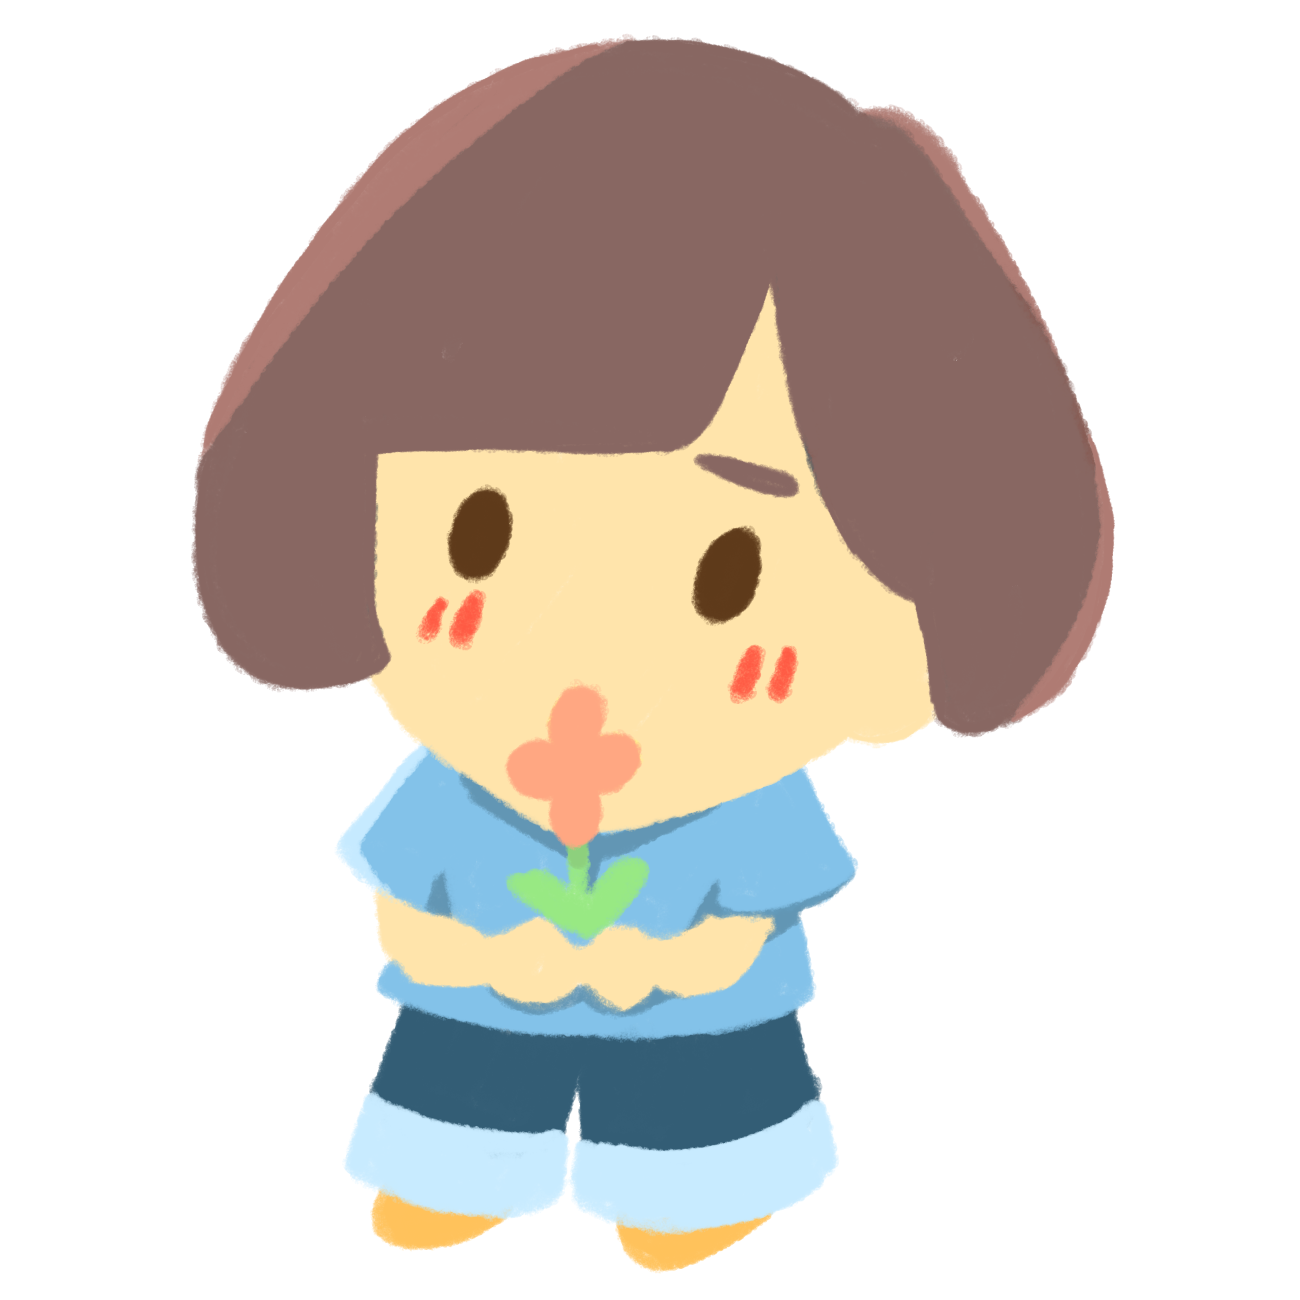
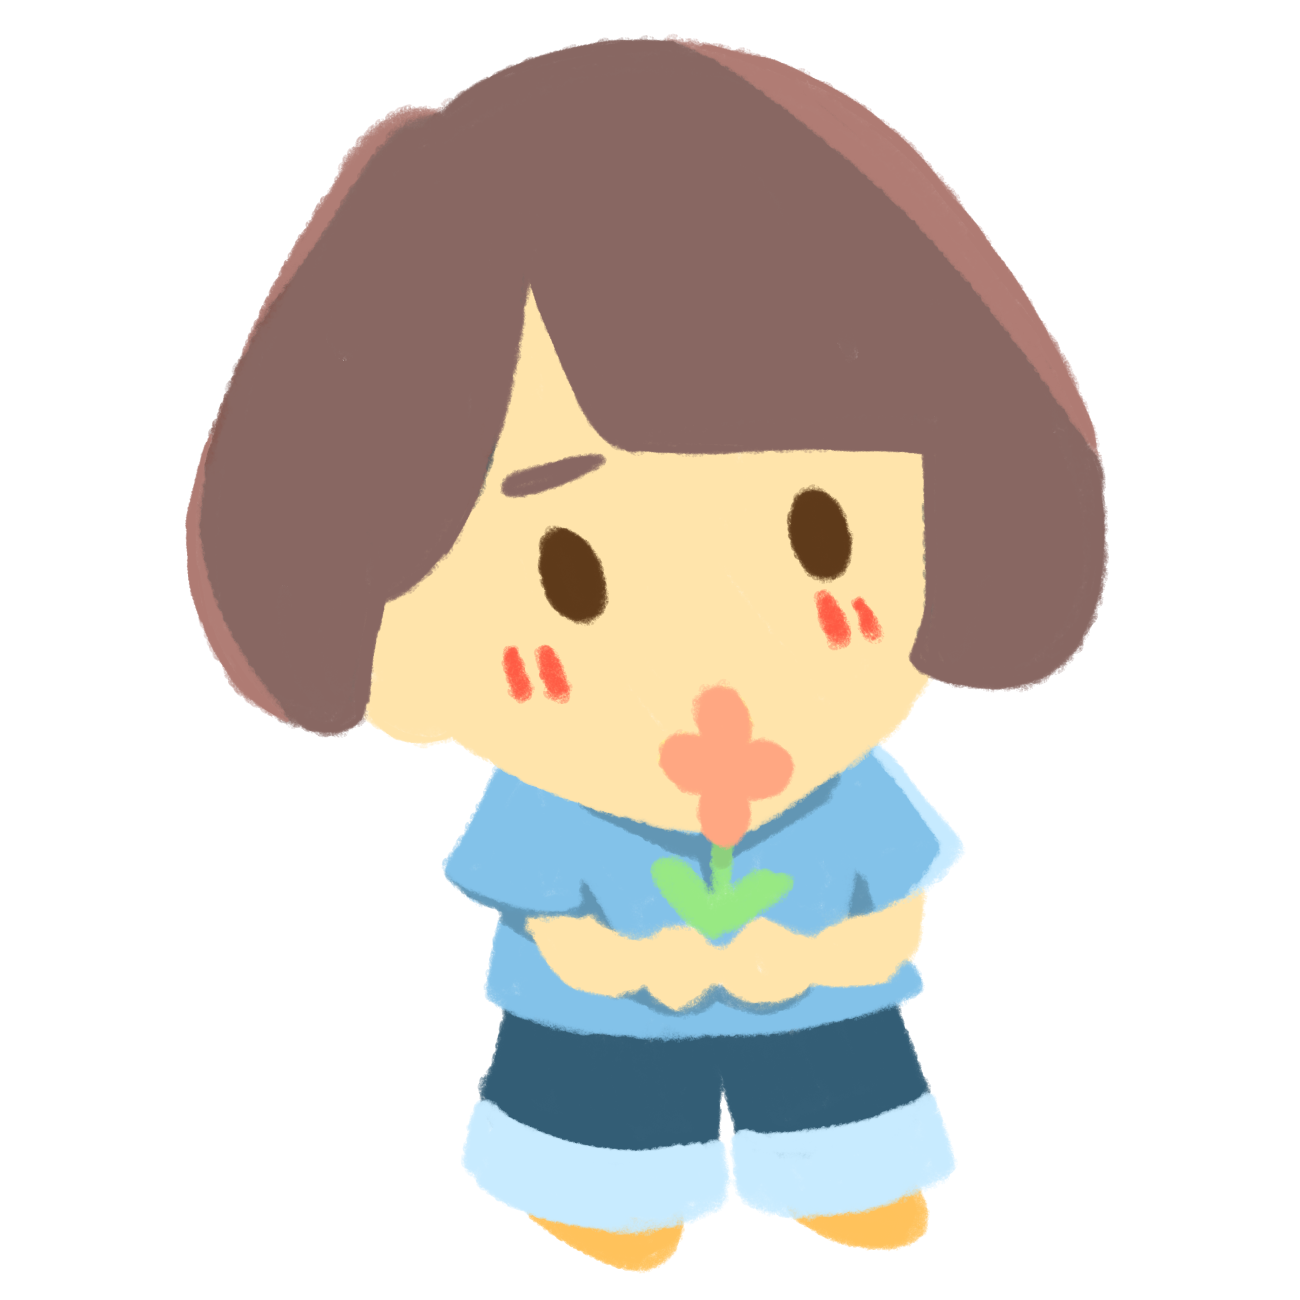
アプリ内の画像も女性反転

Changed region(s): [[0.1231, 0.0308, 0.8615, 0.9846], [0.1538, 0.0308, 0.4923, 0.3692]]

diff --git a/lib/features/final/final_screen.dart b/lib/features/final/final_screen.dart
@@ -1,6 +1,7 @@
 import 'package:flutter/material.dart';
 import 'package:flutter_riverpod/flutter_riverpod.dart';
 import 'package:lovemageddon/features/start/start_screen.dart';
+import 'package:lovemageddon/widgets/character.dart';
 
 class FinalScreen extends ConsumerWidget {
   const FinalScreen({super.key});
@@ -21,6 +22,26 @@ class FinalScreen extends ConsumerWidget {
           child: Column(
             mainAxisSize: MainAxisSize.min,
             children: [
+              Row(
+                mainAxisAlignment: MainAxisAlignment.spaceEvenly,
+                children: [
+                  SizedBox(
+                    width: _screenSize.width * 0.3,
+                    height: _screenSize.height * 0.1,
+                    child: const Character(
+                      num: 3,
+                    ),
+                  ),
+                  SizedBox(
+                    width: _screenSize.width * 0.3,
+                    height: _screenSize.height * 0.1,
+                    child: const Character(
+                      num: 4,
+                    ),
+                  ),
+                ],
+              ),
+              const SizedBox(height: 10),
               const Text(
                 'お疲れ様でした！',
               ),

diff --git a/lib/features/choice_woman/choice_woman_screen.dart b/lib/features/choice_woman/choice_woman_screen.dart
@@ -60,6 +60,7 @@ class _ChoiceWomanScreenState extends ConsumerState<ChoiceWomanScreen> {
                   num: 1,
                 ),
               ),
+              const SizedBox(height: 10),
               (isFinished)
                   ? Text(
                       '次はマッチングできたか確認するよ！',
